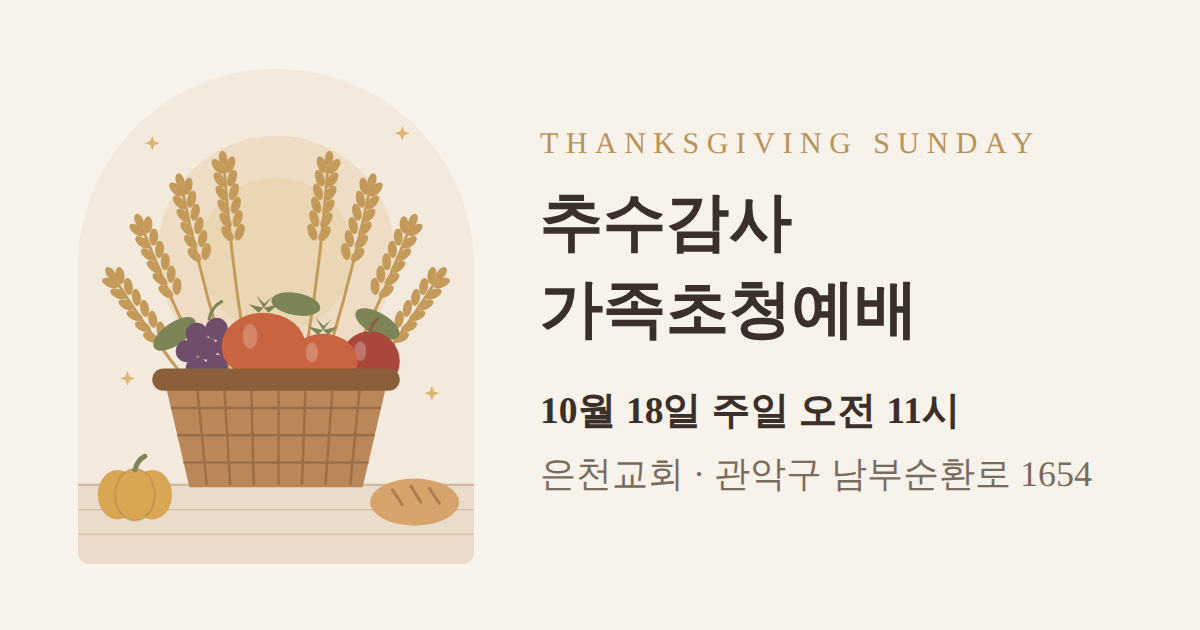
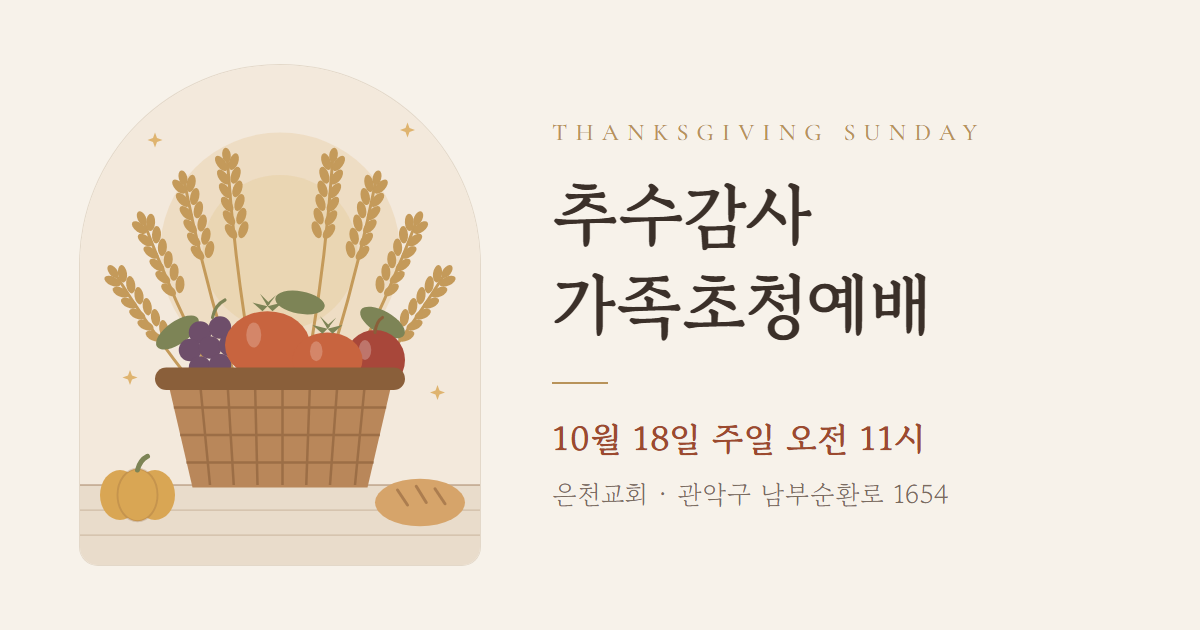
Redesign link thumbnails with site fonts, add bright-version thumbnail

diff --git a/bright.html b/bright.html
@@ -7,8 +7,8 @@
 <meta property="og:type" content="website">
 <meta property="og:title" content="추수감사 가족초청예배 · 은천교회">
 <meta property="og:description" content="10월 18일 주일 오전 11시, 기쁨과 감사의 예배에 당신을 초대합니다.">
-<meta property="og:image" content="https://hongchopper.github.io/eunchun-thanksgiving/og.png">
-<meta property="og:url" content="https://hongchopper.github.io/eunchun-thanksgiving/">
+<meta property="og:image" content="https://hongchopper.github.io/eunchun-thanksgiving/og-bright.png?v=2">
+<meta property="og:url" content="https://hongchopper.github.io/eunchun-thanksgiving/bright.html">
 <style>body{margin:0}img{max-width:100%}[hidden]{display:none!important}</style>
 <title>추수감사 가족초청예배 (화사한 버전)</title>
 <link rel="preconnect" href="https://fonts.googleapis.com">

diff --git a/index.html b/index.html
@@ -7,7 +7,7 @@
 <meta property="og:type" content="website">
 <meta property="og:title" content="추수감사 가족초청예배 · 은천교회">
 <meta property="og:description" content="10월 18일 주일 오전 11시, 기쁨과 감사의 예배에 당신을 초대합니다.">
-<meta property="og:image" content="https://hongchopper.github.io/eunchun-thanksgiving/og.png">
+<meta property="og:image" content="https://hongchopper.github.io/eunchun-thanksgiving/og.png?v=2">
 <meta property="og:url" content="https://hongchopper.github.io/eunchun-thanksgiving/">
 <style>body{margin:0}img{max-width:100%}[hidden]{display:none!important}</style>
 <title>추수감사 가족초청예배</title>
